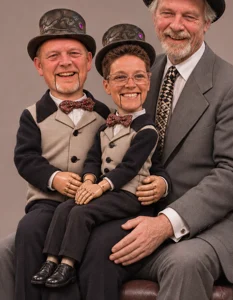
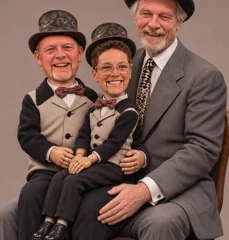
Sonny & Eddie Show: three picture buttons to pick a show (#109)
Claude-Session: https://claude.ai/code/session_01HKyCc4k4tbjRR5EKmTbVKW

diff --git a/carnival/ventriloquist/index.html b/carnival/ventriloquist/index.html
@@ -37,6 +37,15 @@
   #row { display: flex; gap: 14px; align-items: center; justify-content: center; font-size: 13px; color: #cdb896; flex-wrap: wrap; }
   body.side #panel { left: auto; right: 0; top: 0; width: 34%; justify-content: center; }
   body.side .btn { min-width: 0; width: 100%; }
+  .picks { display: flex; gap: 10px; justify-content: center; width: 100%; max-width: 480px; }
+  .pickCard { flex: 1 1 0; min-width: 0; display: flex; flex-direction: column; align-items: center; gap: 6px; padding: 8px 6px 10px; border: 3px solid #ffd75e; border-radius: 16px;
+    background: #2a0812; color: #ffd75e; font: 800 14px/1.15 system-ui, sans-serif; cursor: pointer; box-shadow: 0 4px 0 #a8661a, 0 6px 14px rgba(0,0,0,.4); }
+  .pickCard img { width: 100%; aspect-ratio: 4 / 5; object-fit: cover; object-position: top; border-radius: 10px; }
+  .pickCard:active { transform: translateY(3px); box-shadow: 0 1px 0 #a8661a; }
+  .pickCard:disabled { opacity: .5; }
+  body.side .picks { max-width: none; }
+  body.side #panel { top: calc(var(--sat) + 118px); justify-content: flex-start; }
+  body.side .pickCard img { aspect-ratio: 1 / 1; }
   .link { background: none; border: 0; color: #cdb896; font: 600 13px system-ui, sans-serif; text-decoration: underline; cursor: pointer; padding: 4px; }
 </style>
 </head>
@@ -46,9 +55,11 @@
 <div id="panel">
   <div id="pick" class="mode">
     <div class="askHead" id="fee"></div>
-    <button class="btn" id="pickShow">🎭 Watch the Show</button>
-    <button class="btn alt" id="pickAsk">🎤 Ask Sonny &amp; Eddie</button>
-    <button class="btn alt" id="pickSide">🎪 The Side Show: Eddie’s Dummy</button>
+    <div class="picks">
+      <button class="pickCard" id="pickShow"><img src="img/card.webp" alt=""><span>Watch the Show</span></button>
+      <button class="pickCard" id="pickAsk"><img src="img/card.webp" alt=""><span>Ask Sonny &amp; Eddie</span></button>
+      <button class="pickCard" id="pickSide"><img src="img/sidecard.webp" alt=""><span>Eddie’s Dummy</span></button>
+    </div>
   </div>
   <div id="showCtl" class="mode" hidden>
     <button class="btn" id="goBtn">Start the show!</button>

diff --git a/carnival/sw.js b/carnival/sw.js
@@ -1,5 +1,5 @@
 // Carnival Midway offline cache. Bump VERSION when you change any file.
-const VERSION = "midway-v102";
+const VERSION = "midway-v103";
 const CORE = [
   "./", "index.html", "coins.js", "mikey/poster.webp", "mikey/lines.js", "manifest.webmanifest", "icon-192.png", "icon-512.png", "icon-maskable-512.png", "apple-touch-icon.png", "favicon-32.png",
   "down-the-clown/", "down-the-clown/index.html",
@@ -20,7 +20,7 @@ const CORE = [
   "hoop-shot/", "hoop-shot/index.html",
   "junk-crane/", "junk-crane/index.html", "junk-crane/img/icon.webp", "junk-crane/img/shirt.webp",
   "abby-hen/", "abby-hen/index.html", "abby-hen/img/hen.webp", "abby-hen/img/hen-body.webp", "abby-hen/img/head.webp", "abby-hen/img/shirt.webp",
-  "ventriloquist/", "ventriloquist/index.html", "ventriloquist/bits.js", "ventriloquist/questions.js", "ventriloquist/sideshow.js", "ventriloquist/img/sideshow.webp", "ventriloquist/img/photo.webp", "ventriloquist/img/card.webp",
+  "ventriloquist/", "ventriloquist/index.html", "ventriloquist/bits.js", "ventriloquist/questions.js", "ventriloquist/sideshow.js", "ventriloquist/img/sideshow.webp", "ventriloquist/img/sidecard.webp", "ventriloquist/img/photo.webp", "ventriloquist/img/card.webp",
   "fortune-sonny/", "fortune-sonny/index.html", "fortune-sonny/fortunes.js", "fortune-sonny/img/sonny.webp", "fortune-sonny/img/machine.webp", "fortune-sonny/img/card.webp",
 ];
 
